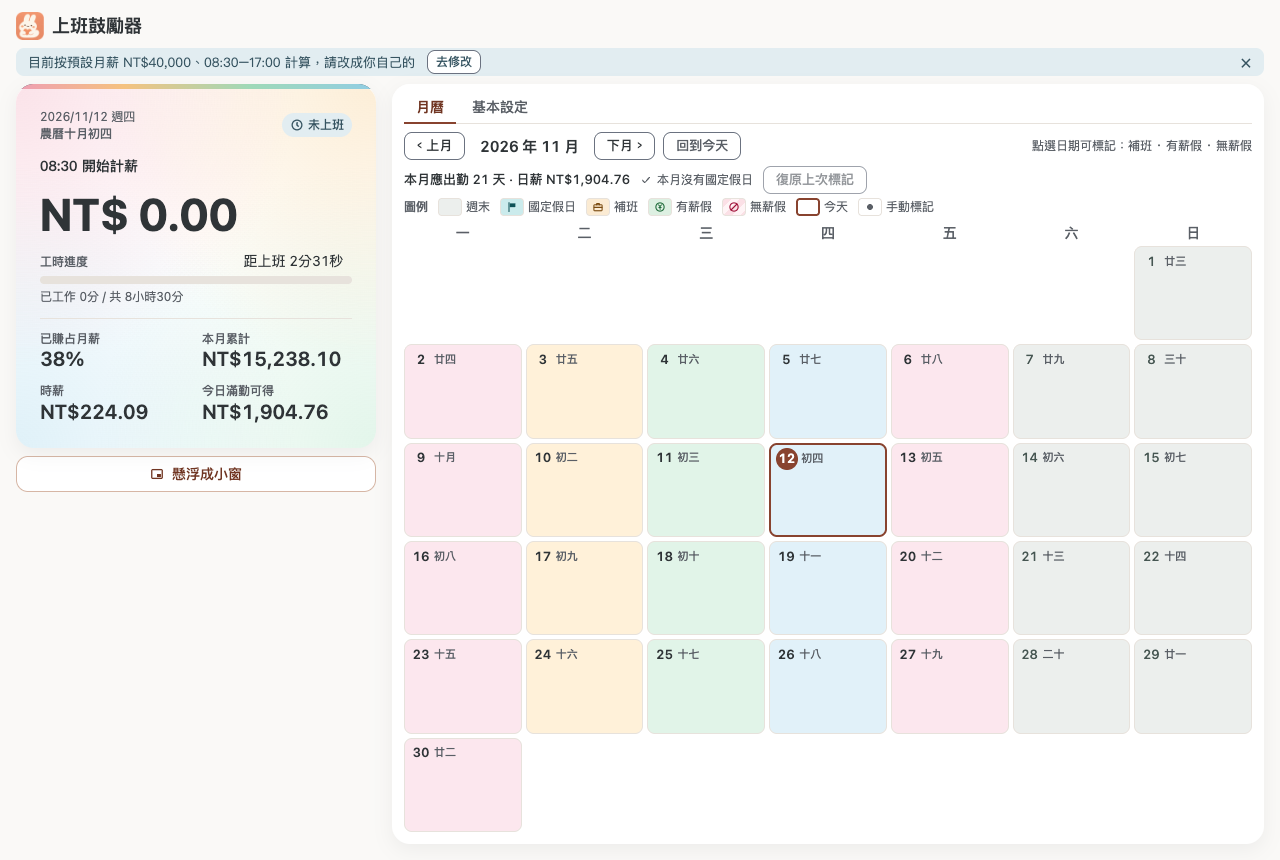
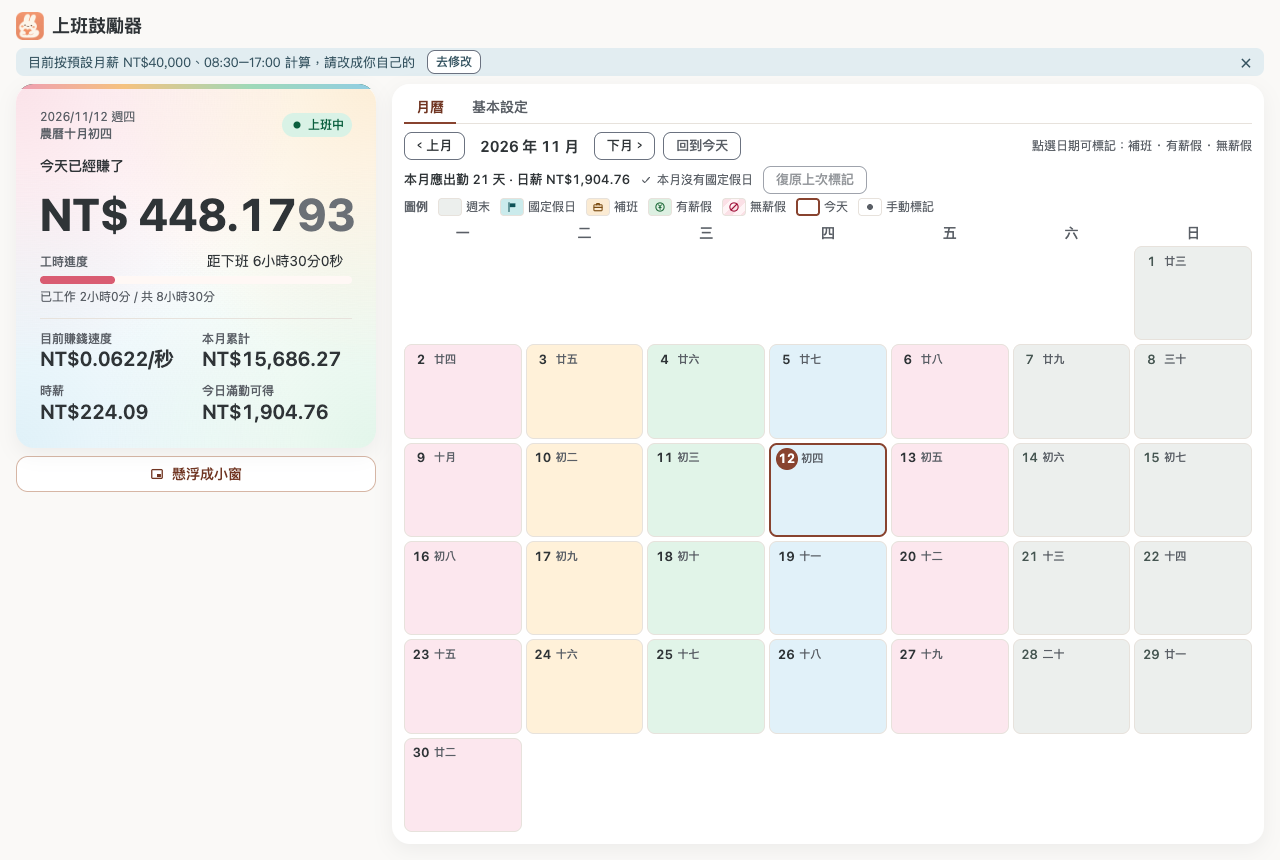
docs: screenshots and GIFs use sample times with real numbers
- home.png: 2026-11-12 10:30 (working), showing worked time, earned today, hourly rate and month-to-date total
- demo.gif: 09:00 → 10:30 → 15:00 → 18:05, status and amounts change over time
- README notes the sample assumptions (default monthly salary 40,000, 08:30–17:00, Taipei time)

Changed region(s): [[0.0312, 0.1814, 0.2812, 0.4233], [0.2188, 0.393, 0.2812, 0.4233], [0.2188, 0.1209, 0.2812, 0.1512]]

diff --git a/README.md b/README.md
@@ -6,6 +6,8 @@
 
 ![臺灣版操作示範](docs/images/demo.gif)
 
+> 圖中數字為示範值：以預設月薪 NT$40,000、上下班 08:30–17:00 計算，時間分別設為 2026-11-12 09:00、10:30、15:00、18:05（臺北時間）。實際數字依你的設定與當下時間而定。
+
 ## 功能
 
 - **即時進度與估算收入**：依月薪、上下班時間與午休計算今日已賺、時薪、本月累計與今日滿勤可得。
@@ -16,6 +18,8 @@
 - **備份與還原**：匯出／匯入 JSON 備份。
 
 ![首頁與月曆](docs/images/home.png)
+
+> 示範時間為 2026-11-12 10:30（臺北時間，上班中），數字依預設月薪 NT$40,000 計算。
 
 ![設定頁](docs/images/settings.png)
 
